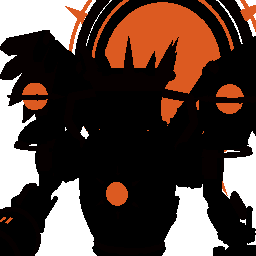
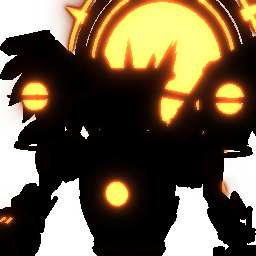
Locked hard skins glow: the neon of their dark portraits blooms into a halo
Claude-Session: https://claude.ai/code/session_013KJk6qvd1GbsmYQztrRAPe

diff --git a/tools/glow_dark_portraits.py b/tools/glow_dark_portraits.py
@@ -1,0 +1,54 @@
+#!/usr/bin/env python3
+"""Neon glow for the locked hard-skin portraits (after tools/render_portraits.gd).
+
+The silhouettes are black with thin neon lines; at thumbnail size the lines vanish. This
+blooms the neon: the lit pixels are blurred into a soft halo in their own colour, laid
+over the black shape and past its edge, so the skin glows in the dark.
+Rewrites art/robots/portraits/cast_*_dark.png in place (keeps a raw copy next to the
+renders in art/robots/portraits/raw_dark/, which Godot ignores).
+"""
+import glob
+import os
+import shutil
+
+import numpy as np
+from PIL import Image, ImageFilter
+
+ROOT = os.path.join(os.path.dirname(__file__), "..", "art", "robots", "portraits")
+
+
+def glow(path):
+    raw_dir = os.path.join(ROOT, "raw_dark")
+    os.makedirs(raw_dir, exist_ok=True)
+    open(os.path.join(raw_dir, ".gdignore"), "a").close()
+    raw = os.path.join(raw_dir, os.path.basename(path))
+    if not os.path.exists(raw):
+        shutil.copy(path, raw)
+    base = np.asarray(Image.open(raw).convert("RGBA")).astype(np.float32) / 255.0
+    rgb, alpha = base[..., :3], base[..., 3:]
+    # The neon: whatever is lit well above the black body.
+    lit = (rgb.max(axis=2, keepdims=True) > 0.18).astype(np.float32) * alpha
+    neon = rgb * lit
+    layers = []
+    for radius, gain in ((2, 1.4), (6, 1.1), (14, 0.8)):
+        blurred = []
+        for channel in range(3):
+            c = Image.fromarray((neon[..., channel] * 255).astype(np.uint8)).filter(ImageFilter.GaussianBlur(radius))
+            blurred.append(np.asarray(c).astype(np.float32) / 255.0)
+        layers.append(np.stack(blurred, axis=2) * gain)
+    halo = np.clip(sum(layers), 0, 1)
+    halo_alpha = np.clip(halo.max(axis=2, keepdims=True) * 1.6, 0, 1)
+    # Over the silhouette: add the light; outside it: the halo on its own.
+    out_rgb = np.clip(rgb + halo, 0, 1)
+    out_alpha = np.maximum(alpha, halo_alpha)
+    # Where only the halo is, its colour stands alone (not added to transparent black).
+    outside = alpha[..., 0] < 0.5
+    out_rgb[outside] = np.clip(halo[outside] / np.maximum(halo_alpha[outside], 1e-3), 0, 1)
+    out = np.concatenate([out_rgb, out_alpha], axis=2)
+    Image.fromarray((out * 255).astype(np.uint8), "RGBA").save(path)
+    print("GLOW", path)
+
+
+if __name__ == "__main__":
+    for file in sorted(glob.glob(os.path.join(ROOT, "cast_*_dark.png"))):
+        glow(file)
